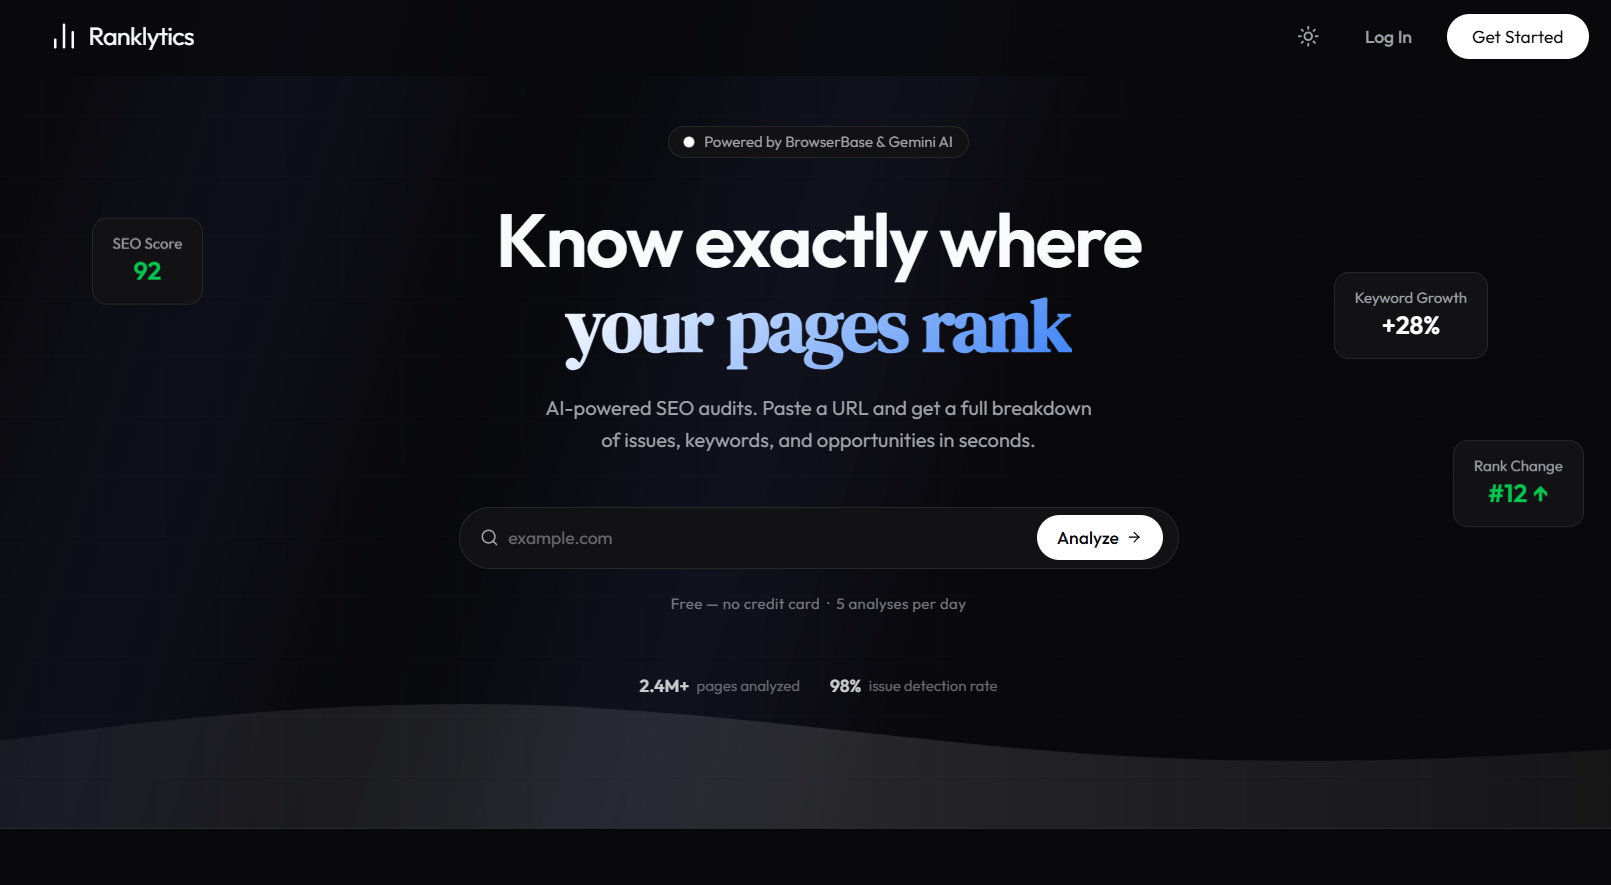
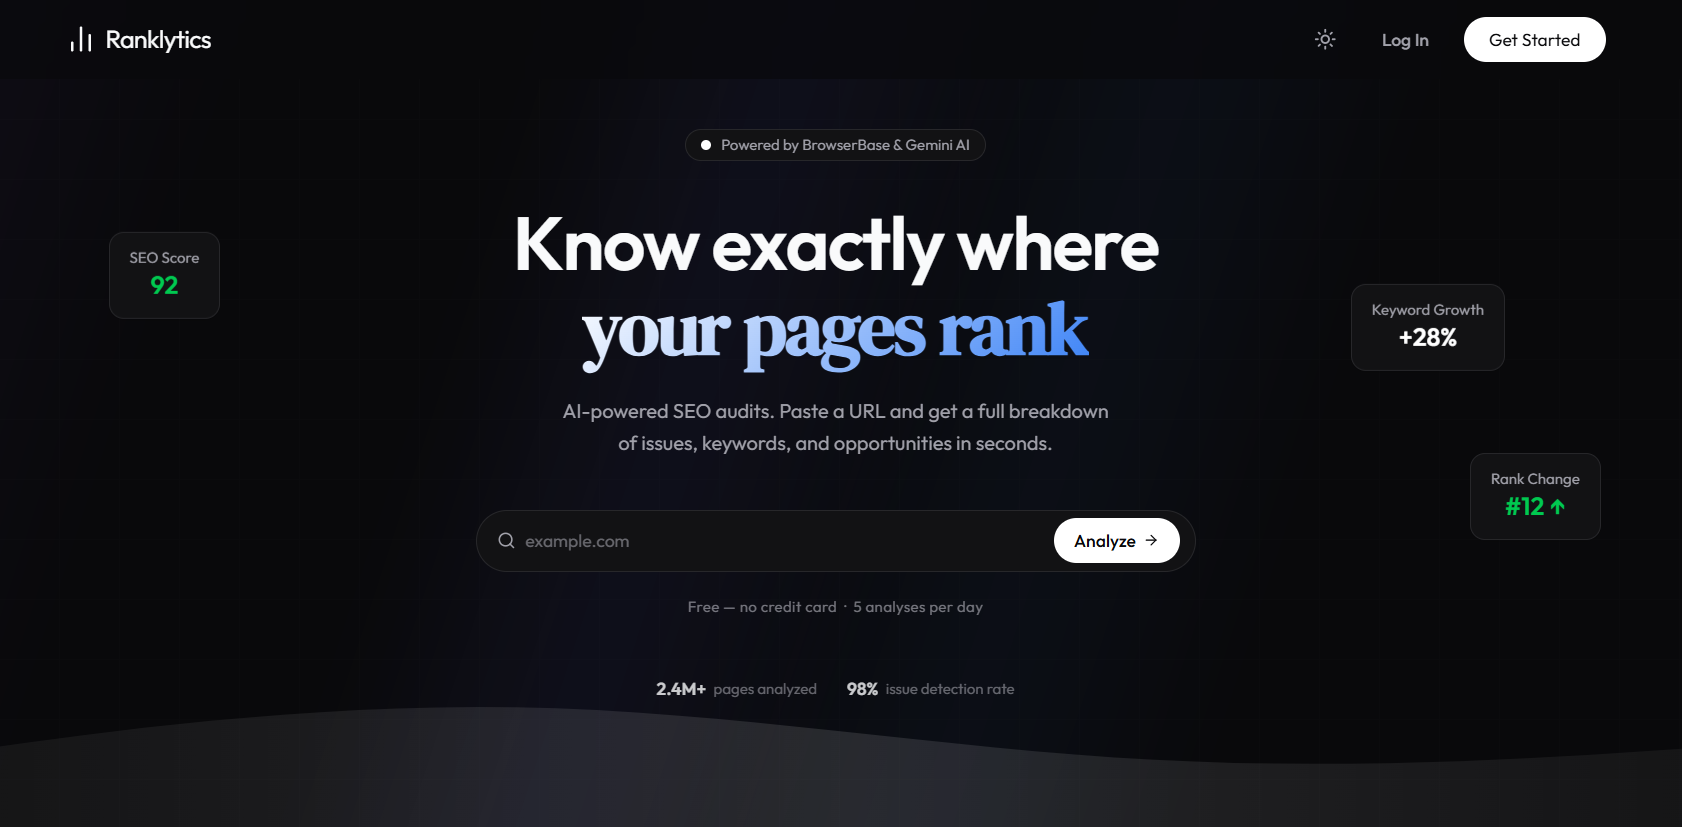
add new images for projects and update image paths in project data; remove unused code from Navbar, ProjectCard, ProjectStack, and SkillsSection components

diff --git a/client/src/components/Navbar.jsx b/client/src/components/Navbar.jsx
@@ -1,13 +1,11 @@
 import { useEffect, useRef, useState } from "react";
 import { AnimatePresence, motion } from "motion/react";
-import { Menu, X, Check } from "lucide-react";
+import { Menu, X } from "lucide-react";
 
 import ThemeToggle from "./ui/ThemeToggle.jsx";
-import Button from "./ui/Button.jsx";
 
-import { DownloadIcon, LetterRIcon } from "./ui/AnimatedIcons.jsx";
+import { LetterRIcon } from "./ui/AnimatedIcons.jsx";
 
-import { RESUME_FILE } from "../data/Site.js";
 import { useActiveSection } from "../hooks/useActiveSection.js";
 
 const NAV_LINKS = [
@@ -21,37 +19,11 @@ const SECTION_IDS = NAV_LINKS.map((link) => link.href.replace("#", ""));
 
 export default function Navbar() {
   const [open, setOpen] = useState(false);
-  const [resumeDownloaded, setResumeDownloaded] = useState(false);
 
   const menuContainerRef = useRef(null);
   const monogramRef = useRef(null);
-  const downloadRef = useRef(null);
-  const downloadTimeoutRef = useRef(null);
 
   const activeSection = useActiveSection(SECTION_IDS);
-
-  // Resume download feedback
-  const handleResumeDownload = () => {
-    if (downloadTimeoutRef.current) {
-      window.clearTimeout(downloadTimeoutRef.current);
-    }
-
-    setResumeDownloaded(true);
-
-    downloadTimeoutRef.current = window.setTimeout(() => {
-      setResumeDownloaded(false);
-      downloadTimeoutRef.current = null;
-    }, 2500);
-  };
-
-  // Clean up download timer
-  useEffect(() => {
-    return () => {
-      if (downloadTimeoutRef.current) {
-        window.clearTimeout(downloadTimeoutRef.current);
-      }
-    };
-  }, []);
 
   // Close menu if viewport resizes to desktop
   useEffect(() => {
@@ -162,7 +134,7 @@ export default function Navbar() {
           })}
         </nav>
 
-        {/* Desktop actions */}
+        {/* Desktop actions (Theme Toggle only) */}
         <div
           className="
             hidden items-center justify-self-end
@@ -170,57 +142,6 @@ export default function Navbar() {
           "
         >
           <ThemeToggle />
-
-          <Button
-            as="a"
-            href={RESUME_FILE}
-            download
-            variant="primary"
-            className="
-              !rounded-lg !px-4 !py-2
-              text-xs font-medium
-            "
-            onClick={handleResumeDownload}
-            onMouseEnter={() => {
-              if (!resumeDownloaded) {
-                downloadRef.current?.startAnimation();
-              }
-            }}
-            onMouseLeave={() => downloadRef.current?.stopAnimation()}
-          >
-            <span className="relative inline-grid w-4 h-4 shrink-0 place-items-center">
-              <AnimatePresence mode="wait" initial={false}>
-                {resumeDownloaded ? (
-                  <motion.span
-                    key="success"
-                    initial={{ opacity: 0, scale: 0.5, y: 3 }}
-                    animate={{ opacity: 1, scale: 1, y: 0 }}
-                    exit={{ opacity: 0, scale: 0.7, y: -2 }}
-                    transition={{
-                      type: "spring",
-                      stiffness: 450,
-                      damping: 20,
-                    }}
-                    className="absolute inset-0 grid place-items-center text-signal"
-                  >
-                    <Check size={16} strokeWidth={3} />
-                  </motion.span>
-                ) : (
-                  <motion.span
-                    key="download"
-                    initial={{ opacity: 0, scale: 0.7, y: -3 }}
-                    animate={{ opacity: 1, scale: 1, y: 0 }}
-                    exit={{ opacity: 0, scale: 0.6, y: -3 }}
-                    transition={{ duration: 0.18 }}
-                    className="absolute inset-0 grid place-items-center"
-                  >
-                    <DownloadIcon ref={downloadRef} size={15} />
-                  </motion.span>
-                )}
-              </AnimatePresence>
-            </span>
-            Resume
-          </Button>
         </div>
 
         {/* Mobile controls + Floating Popover Menu */}
@@ -282,12 +203,12 @@ export default function Navbar() {
                 }}
                 style={{ transformOrigin: "top right" }}
                 className="
-        absolute right-0 top-[calc(100%+10px)] z-50
-        w-56 overflow-hidden rounded-2xl
-        border border-line bg-canvas p-2
-        shadow-xl
-        dark:border-line-dark dark:bg-canvas-dark
-      "
+                  absolute right-0 top-[calc(100%+10px)] z-50
+                  w-56 overflow-hidden rounded-2xl
+                  border border-line bg-canvas p-2
+                  shadow-xl
+                  dark:border-line-dark dark:bg-canvas-dark
+                "
               >
                 <nav className="flex flex-col gap-0.5">
                   {NAV_LINKS.map((link) => {
@@ -316,33 +237,6 @@ export default function Navbar() {
                     );
                   })}
                 </nav>
-
-                <div className="my-2 border-t border-line/70 dark:border-line-dark/70" />
-
-                <Button
-                  as="a"
-                  href={RESUME_FILE}
-                  download
-                  variant="primary"
-                  className="
-                    !min-h-9 w-full justify-center
-                    !rounded-xl !px-3 !py-2
-                    text-xs font-medium
-                  "
-                  onClick={() => {
-                    handleResumeDownload();
-                    setOpen(false);
-                  }}
-                >
-                  <span className="inline-grid w-3.5 h-3.5 shrink-0 place-items-center mr-1.5">
-                    {resumeDownloaded ? (
-                      <Check size={14} strokeWidth={2.5} />
-                    ) : (
-                      <DownloadIcon size={14} />
-                    )}
-                  </span>
-                  Download Resume
-                </Button>
               </motion.div>
             )}
           </AnimatePresence>

diff --git a/client/src/components/ProjectCard.jsx b/client/src/components/ProjectCard.jsx
@@ -324,3 +324,121 @@ export default function ProjectCard({
     </motion.article>
   );
 }
+
+// import { useRef } from "react";
+// import Badge from "./ui/Badge.jsx";
+// import { GithubIcon, LinkIcon } from "./ui/AnimatedIcons.jsx";
+
+// const MAX_STACK = 4;
+
+// const iconButton =
+//   "inline-flex h-9 w-9 items-center justify-center rounded-md text-muted transition-colors hover:bg-line/50 hover:text-ink dark:text-muted-dark dark:hover:bg-line-dark/60 dark:hover:text-ink-dark";
+
+// export default function ProjectCard({ project }) {
+//   const githubRef = useRef(null);
+//   const demoRef = useRef(null);
+
+//   const stack = project.stack ?? [];
+//   const visibleStack = stack.slice(0, MAX_STACK);
+//   const hiddenCount = stack.length - visibleStack.length;
+//   const isLive = Boolean(project.links?.demo);
+
+//   return (
+//     <article className="flex h-full flex-col border border-dashed border-line bg-canvas p-3.5 dark:border-line-dark dark:bg-canvas-dark sm:p-4">
+//       {/* Screenshot */}
+//       <div className="overflow-hidden border rounded-lg border-line bg-line/40 dark:border-line-dark dark:bg-line-dark/40">
+//         <div className="w-full aspect-video">
+//           {project.image ? (
+//             <img
+//               src={project.image}
+//               alt={`${project.name} preview`}
+//               loading="lazy"
+//               decoding="async"
+//               className="object-cover object-center w-full h-full"
+//             />
+//           ) : (
+//             <div className="flex items-center justify-center w-full h-full text-sm text-muted dark:text-muted-dark">
+//               Preview coming soon
+//             </div>
+//           )}
+//         </div>
+//       </div>
+
+//       {/* Title + status */}
+//       <div className="flex items-start justify-between gap-4 mt-4">
+//         <div className="min-w-0">
+//           <h3 className="text-xl font-medium tracking-tight">{project.name}</h3>
+//           {project.category && (
+//             <p className="mt-0.5 text-sm text-muted dark:text-muted-dark">
+//               {project.category}
+//             </p>
+//           )}
+//         </div>
+
+//         {isLive && (
+//           <span className="inline-flex items-center gap-2 mt-1 text-sm shrink-0 text-muted dark:text-muted-dark">
+//             <span className="w-2 h-2 rounded-full bg-signal dark:bg-accent-dark" />
+//             Live
+//           </span>
+//         )}
+//       </div>
+
+//       {/* Description */}
+//       <p className="mt-4 text-sm leading-6 text-muted dark:text-muted-dark">
+//         {project.overview}
+//       </p>
+
+//       {/* Footer: stack on the left, links on the right */}
+//       <div className="flex items-center justify-between gap-4 pt-5 mt-auto">
+//         {stack.length > 0 ? (
+//           <ul className="flex flex-wrap gap-2" aria-label="Tech stack">
+//             {visibleStack.map((tech) => (
+//               <li key={tech}>
+//                 <Badge>{tech}</Badge>
+//               </li>
+//             ))}
+//             {hiddenCount > 0 && (
+//               <li>
+//                 <Badge>+{hiddenCount}</Badge>
+//               </li>
+//             )}
+//           </ul>
+//         ) : (
+//           <span aria-hidden="true" />
+//         )}
+
+//         <div className="flex items-center gap-1 shrink-0">
+//           {project.links?.demo && (
+//             <a
+//               href={project.links.demo}
+//               target="_blank"
+//               rel="noopener noreferrer"
+//               data-cursor="link"
+//               aria-label={`${project.name} live demo`}
+//               className={iconButton}
+//               onMouseEnter={() => demoRef.current?.startAnimation()}
+//               onMouseLeave={() => demoRef.current?.stopAnimation()}
+//             >
+//               <LinkIcon ref={demoRef} size={18} />
+//             </a>
+//           )}
+
+//           {project.links?.github && (
+//             <a
+//               href={project.links.github}
+//               target="_blank"
+//               rel="noopener noreferrer"
+//               data-cursor="link"
+//               aria-label={`${project.name} on GitHub`}
+//               className={iconButton}
+//               onMouseEnter={() => githubRef.current?.startAnimation()}
+//               onMouseLeave={() => githubRef.current?.stopAnimation()}
+//             >
+//               <GithubIcon ref={githubRef} size={18} />
+//             </a>
+//           )}
+//         </div>
+//       </div>
+//     </article>
+//   );
+// }

diff --git a/client/src/data/projects.js b/client/src/data/projects.js
@@ -2,7 +2,7 @@ export const projects = [
   {
     id: "ranklytics",
     name: "Ranklytics",
-    image: "/images/SEO-project.png",
+    image: "/images/SEO-img.png",
     featured: true,
     category: "AI SEO Analytics Platform",
     stack: ["React", "Node.js", "Express", "MongoDB", "Gemini AI", "Browserbase"],
@@ -22,7 +22,7 @@ export const projects = [
   {
     id: "leadflow",
     name: "LeadFlow",
-    image: "/images/leadflow-img.png",
+    image: "/images/Leadflow-img.png",
     featured: false,
     category: "Smart Leads & CRM Workspace",
     stack: ["React", "JavaScript", "Node.js", "Express", "MongoDB", "Docker"],
@@ -42,7 +42,7 @@ export const projects = [
   {
     id: "chatsphere",
     name: "ChatSphere",
-    image: "/images/chatsphere-img.png",
+    image: "/images/Chatsphere-img.png",
     featured: false,
     category: "Real-Time Messaging App",
     stack: ["React", "Node.js", "Express", "MongoDB", "Socket.IO", "Cloudinary"],
@@ -62,7 +62,7 @@ export const projects = [
   {
     id: "ai-resume-analyzer",
     name: "AI Resume Analyzer",
-    image: "/images/resume-analys-img.png",
+    image: "/images/airesume-img.png",
     featured: false,
     category: "AI Resume Analysis",
     stack: ["React", "JavaScript", "Puter.js"],

diff --git a/client/src/components/ProjectStack.jsx b/client/src/components/ProjectStack.jsx
@@ -92,11 +92,16 @@ export default function ProjectStack() {
 
   return (
     <>
-      <div
+      {/* <div
         className="relative hidden md:block"
         style={{
           height: `${projects.length * 62}vh`,
         }}
+      > */}
+
+      <div
+        className="relative hidden md:block"
+        style={{ paddingBottom: "1vh" }}
       >
         {projects.map((project, index) => (
           <StackedCard
@@ -122,3 +127,17 @@ export default function ProjectStack() {
     </>
   );
 }
+
+// import { projects } from "../data/projects.js";
+// import ProjectCard from "./ProjectCard.jsx";
+
+// /* Simple responsive grid: 1 column on mobile, 2 from tablet up */
+// export default function ProjectStack() {
+//   return (
+//     <div className="grid grid-cols-1 gap-5 md:grid-cols-2 md:gap-6">
+//       {projects.map((project, index) => (
+//         <ProjectCard key={project.id} project={project} index={index} />
+//       ))}
+//     </div>
+//   );
+// }

diff --git a/client/src/sections/SkillsSection.jsx b/client/src/sections/SkillsSection.jsx
@@ -45,20 +45,6 @@ const TOTAL_SKILLS = skillGroups.reduce(
   0,
 );
 
-// function SkillPill({ skill }) {
-//   const Icon = ICONS[skill.icon] ?? Code2;
-//   return (
-//     <span className="group inline-flex items-center gap-2 rounded-xl border border-line dark:border-line-dark bg-surface dark:bg-surface-dark px-3.5 py-2 text-sm text-ink dark:text-ink-dark transition-colors duration-200 hover:border-accent/40 dark:hover:border-accent-dark/40">
-//       <Icon
-//         size={15}
-//         strokeWidth={1.75}
-//         className="transition-colors duration-200 text-muted dark:text-muted-dark group-hover:text-accent dark:group-hover:text-accent-dark"
-//       />
-//       {skill.name}
-//     </span>
-//   );
-// }
-
 function SkillPill({ skill }) {
   const Icon = ICONS[skill.icon] ?? Code2;
   return (
